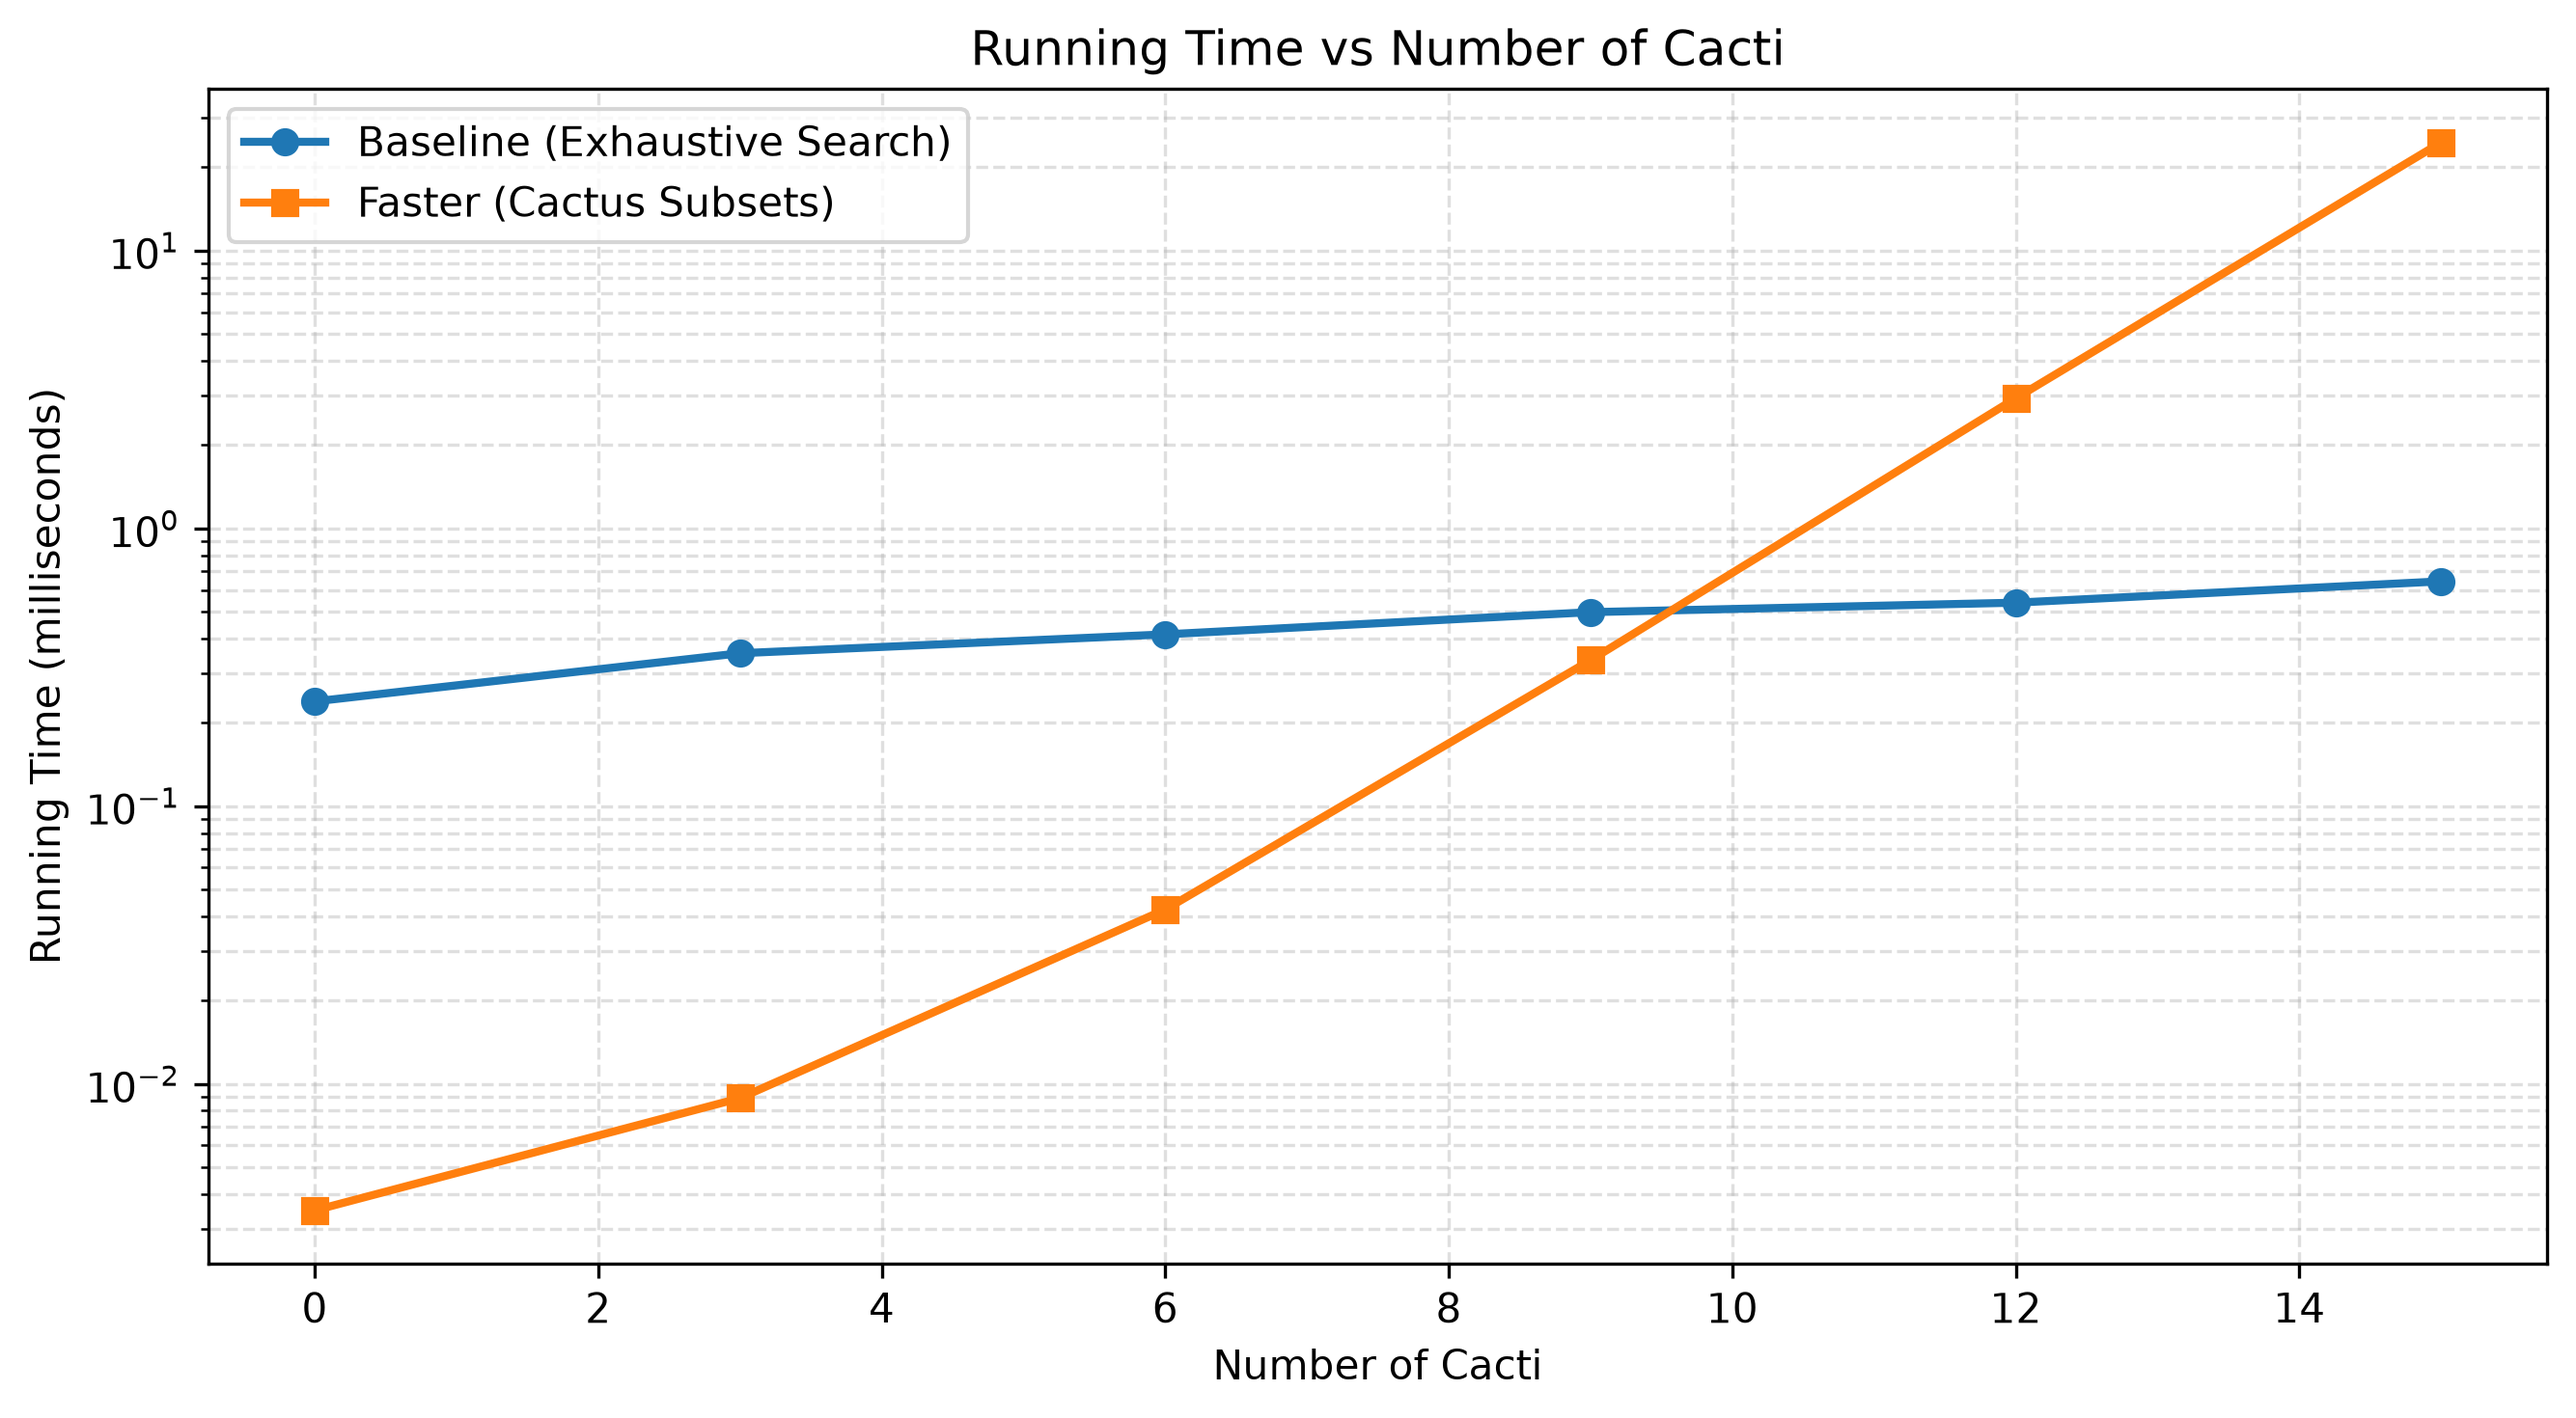
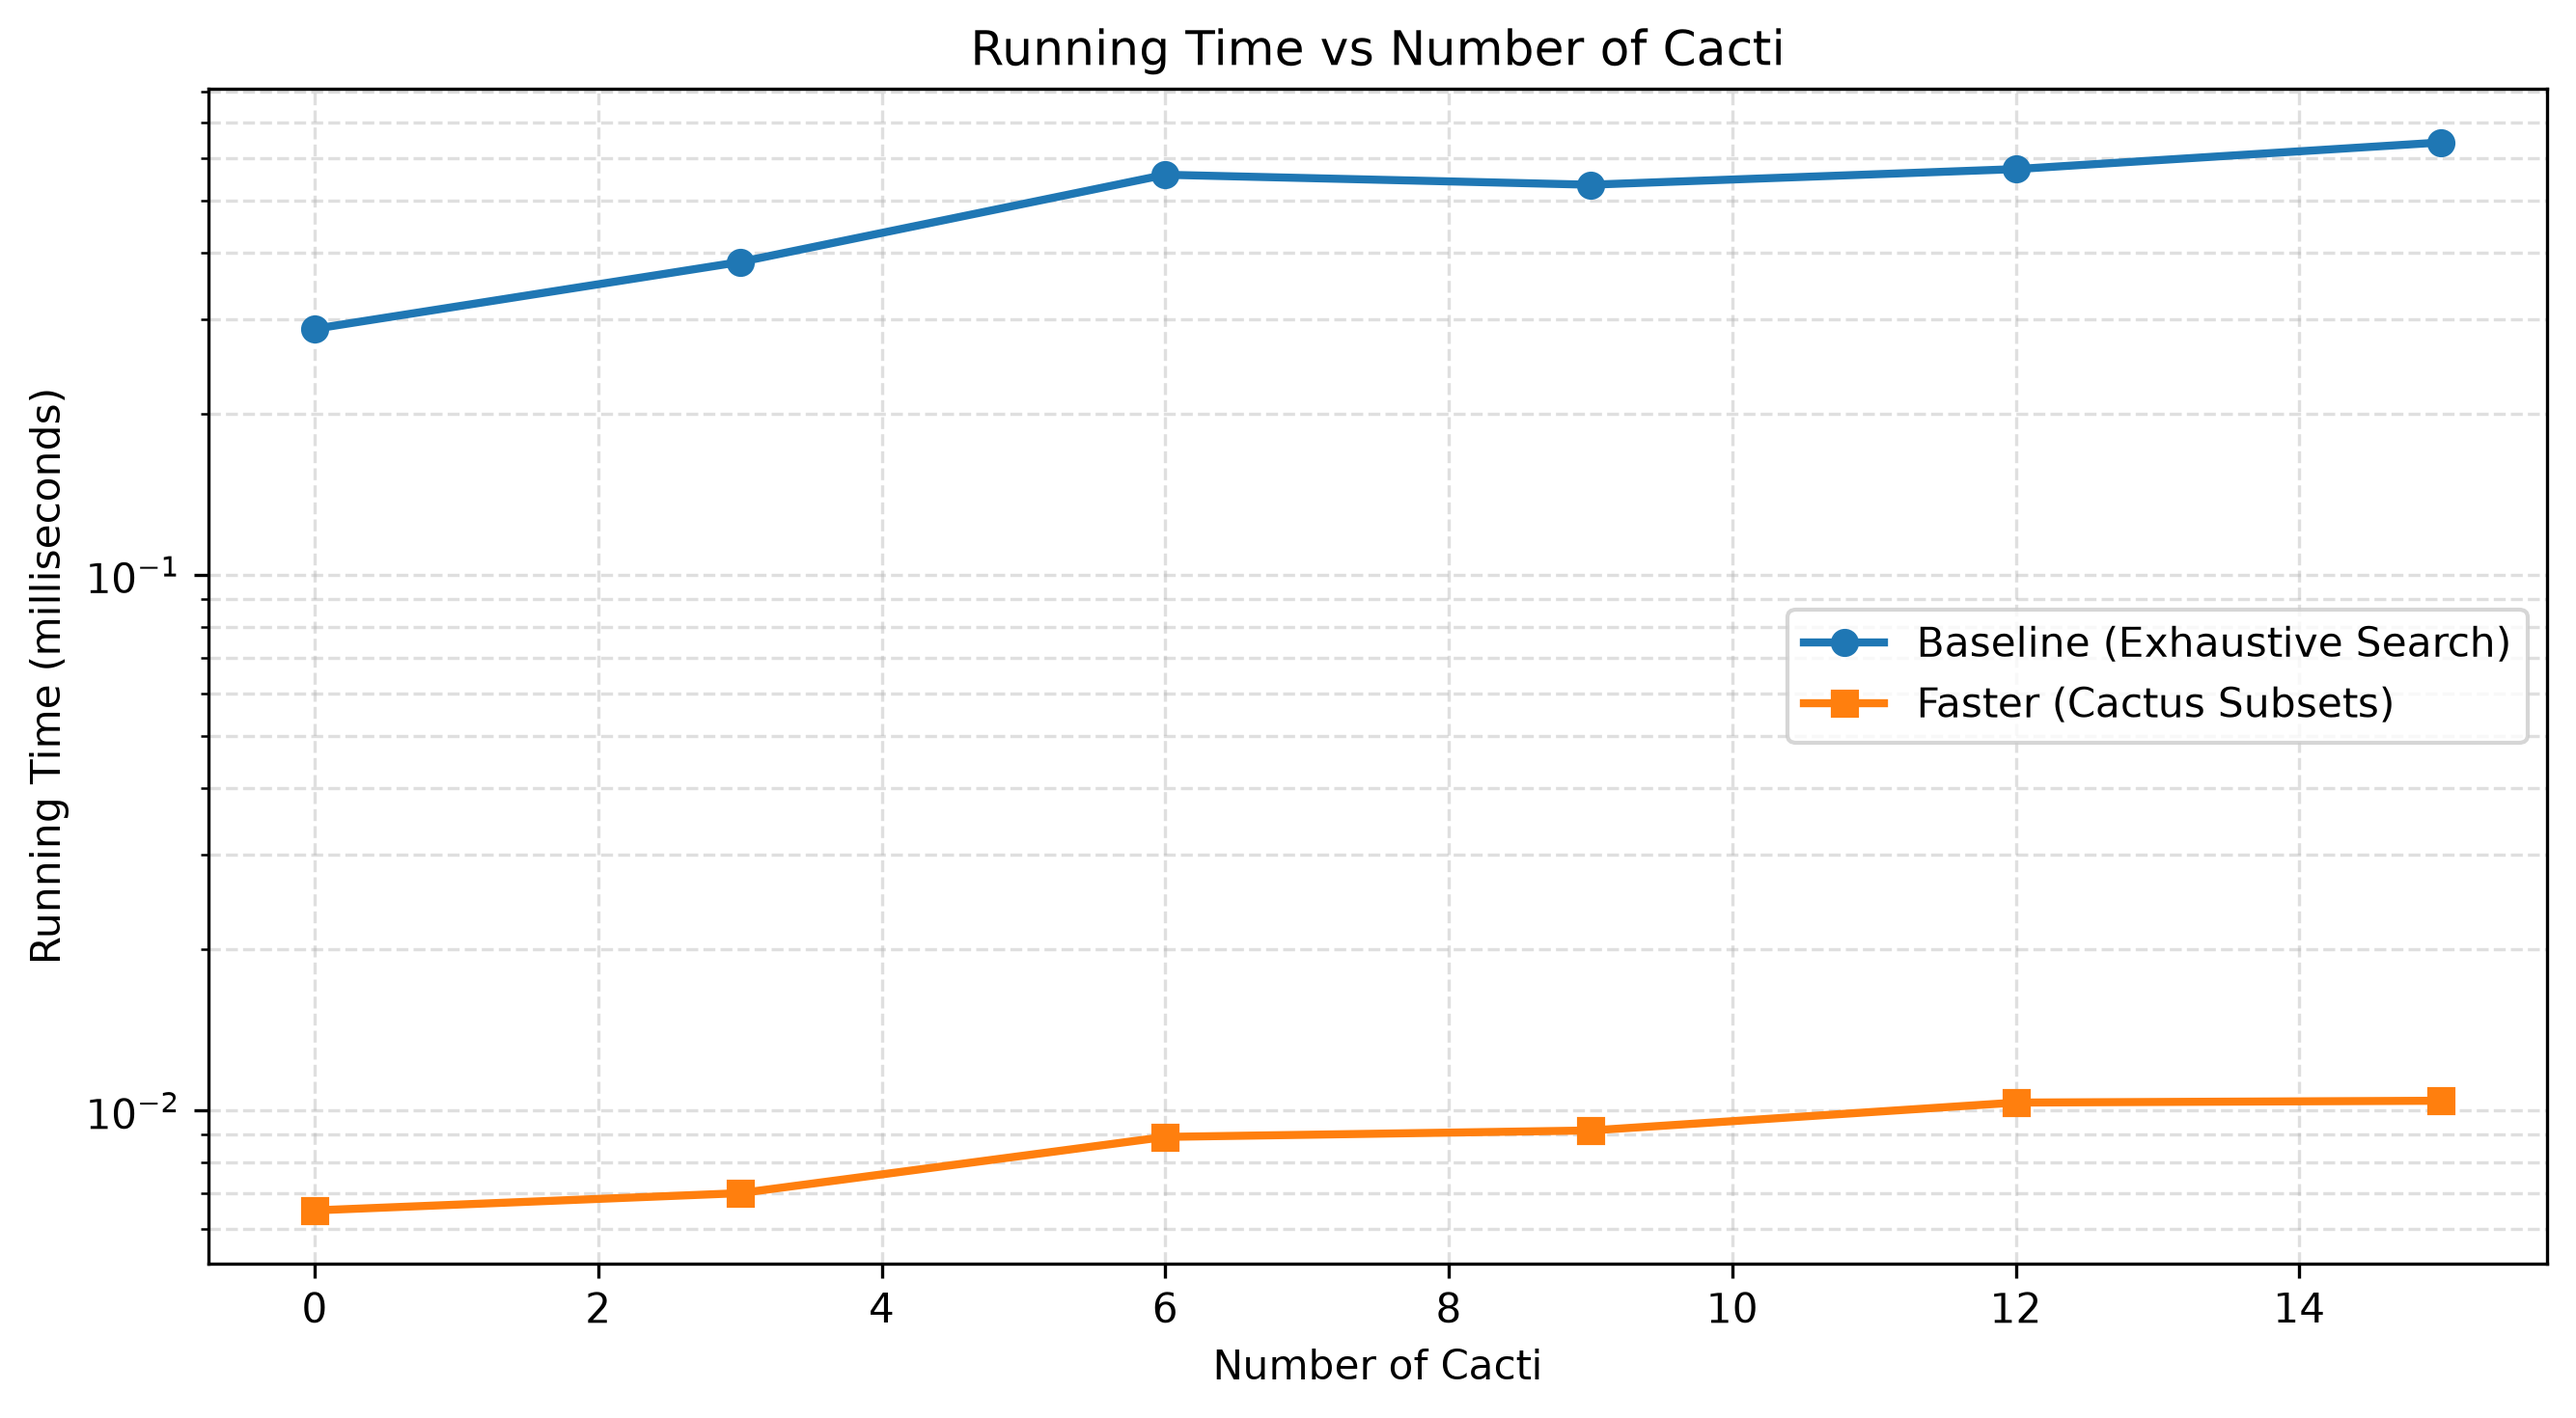
Optimize cactus search and compare benchmark performance

diff --git a/fasterAlgo.py b/fasterAlgo.py
@@ -5,21 +5,19 @@
 
 """
 CMPT 360 - Option 4: Cover
-Faster Algorithm: Cactus Subset Enumeration
+Faster Algorithm: Optimized Cactus Subset Enumeration
 
 Goal:
 Water every orange tree while minimizing the number
 of distinct cacti watered.
 
-Main idea:
-Instead of trying all subsets of sprinklers, try all
-subsets of cacti that we are willing to water.
+Main improvements:
+1. Identify cacti that must be watered.
+2. Ignore sprinklers that cover no orange trees.
+3. Ignore cacti that are irrelevant to the solution.
+4. Enumerate only the remaining optional cacti.
 
-For each allowed cactus subset, select sprinklers that
-avoid the forbidden cacti and cover all orange trees.
-
-This approach works best when there are fewer cacti
-than sprinklers.
+The algorithm still guarantees an optimal solution.
 """
 
 import argparse
@@ -39,11 +37,10 @@ def solve_cover(O, C, S, R):
         or None if no valid solution exists.
     """
 
-    # Each sprinkler must have a corresponding radius.
+    # Check that each sprinkler has a radius.
     if len(S) != len(R):
         raise ValueError("S and R must have the same length")
 
-    # Sprinkler radii cannot be negative.
     if any(radius < 0 for radius in R):
         raise ValueError("Sprinkler radii cannot be negative")
 
@@ -51,116 +48,157 @@ def solve_cover(O, C, S, R):
     if not O:
         return [], 0
 
-    # Precompute which oranges and cacti each sprinkler
-    # waters. We represent these sets using bitmasks.
     orange_masks = []
     cactus_masks = []
+    useful = []
 
-    for position, radius in zip(S, R):
-
-        # Calculate the sprinkler's watering interval.
+    # Precompute the objects covered by each sprinkler.
+    for i, (position, radius) in enumerate(zip(S, R)):
         left = position - radius
         right = position + radius
 
         oranges = 0
         cacti = 0
 
-        # Set bit j to 1 if orange j is watered.
+        # Set one bit for every orange watered.
         for j, orange in enumerate(O):
             if left <= orange <= right:
                 oranges |= 1 << j
 
-        # Set bit j to 1 if cactus j is watered.
+        # Set one bit for every cactus watered.
         for j, cactus in enumerate(C):
             if left <= cactus <= right:
                 cacti |= 1 << j
 
-        # Save the coverage masks for this sprinkler.
         orange_masks.append(oranges)
         cactus_masks.append(cacti)
 
-    # A mask containing 1 for every orange tree.
-    # Example: 3 oranges -> binary 111.
+        # A sprinkler covering no oranges is unnecessary.
+        if oranges != 0:
+            useful.append(i)
+
+    # Target mask: every orange tree must be covered.
     all_oranges = (1 << len(O)) - 1
 
-    # Try allowing 0 cacti to get wet, then 1,
-    # then 2, until we find a valid solution.
-    for budget in range(len(C) + 1):
+    # --------------------------------------------------
+    # Optimization 1: Find unavoidable cacti.
+    # --------------------------------------------------
 
-        # Generate all cactus subsets of this size.
+    forced_cacti = 0
+
+    for j in range(len(O)):
+
+        # Find sprinklers that can water orange j.
+        covering = [
+            i for i in useful
+            if orange_masks[i] & (1 << j)
+        ]
+
+        # If no sprinkler reaches this orange,
+        # the entire problem is impossible.
+        if not covering:
+            return None
+
+        # Find cacti watered by EVERY sprinkler
+        # capable of covering this orange.
+        common_cacti = cactus_masks[covering[0]]
+
+        for i in covering[1:]:
+            common_cacti &= cactus_masks[i]
+
+        # These cacti must be watered in any solution.
+        forced_cacti |= common_cacti
+
+    # --------------------------------------------------
+    # Optimization 2: Remove irrelevant cacti.
+    # --------------------------------------------------
+
+    relevant_cacti = 0
+
+    # Only consider cacti watered by sprinklers
+    # that can cover at least one orange.
+    for i in useful:
+        relevant_cacti |= cactus_masks[i]
+
+    # Keep only cacti that are relevant but not forced.
+    # These are the cacti we actually need to enumerate.
+    optional_indices = [
+        j for j in range(len(C))
+        if (relevant_cacti & (1 << j))
+        and not (forced_cacti & (1 << j))
+    ]
+
+    # --------------------------------------------------
+    # Optimization 3: Search optional cactus subsets.
+    # --------------------------------------------------
+
+    # Try allowing zero optional cacti, then one,
+    # and continue until we find a valid solution.
+    for budget in range(len(optional_indices) + 1):
+
         for cactus_subset in combinations(
-            range(len(C)), budget
+            optional_indices, budget
         ):
 
-            # Create a mask of cacti allowed to get wet.
-            allowed_cacti = 0
+            # Forced cacti are always allowed.
+            allowed_cacti = forced_cacti
 
+            # Add the optional cacti for this subset.
             for j in cactus_subset:
                 allowed_cacti |= 1 << j
 
-            # Track the current sprinkler selection.
             selected = []
             covered_oranges = 0
-            actually_watered_cacti = 0
+            watered_cacti = 0
 
-            # Examine every sprinkler.
-            for i in range(len(S)):
+            # Examine only useful sprinklers.
+            for i in useful:
 
-                # Skip this sprinkler if it waters a
-                # cactus outside the allowed subset.
-                #
-                # & checks for overlap between sets.
-                # ~ identifies the forbidden cactus bits.
+                # Reject sprinklers watering forbidden cacti.
                 if cactus_masks[i] & ~allowed_cacti:
                     continue
 
-                # Skip this sprinkler if it does not
-                # cover any new orange trees.
-                #
-                # | combines the already covered oranges
-                # with the sprinkler's orange coverage.
+                # Skip sprinklers that add no new oranges.
                 if (orange_masks[i] | covered_oranges) == covered_oranges:
                     continue
 
-                # Select this sprinkler.
+                # Select the sprinkler and update coverage.
                 selected.append(i)
-
-                # Update the covered oranges and
-                # the cacti that actually get wet.
                 covered_oranges |= orange_masks[i]
-                actually_watered_cacti |= cactus_masks[i]
+                watered_cacti |= cactus_masks[i]
 
-                # Check whether every orange is covered.
+                # All orange trees are now covered.
                 if covered_oranges == all_oranges:
 
-                    # Count the number of distinct cacti
-                    # watered by the selected sprinklers.
-                    cost = bin(actually_watered_cacti).count("1")
+                    # Count distinct cacti actually watered.
+                    cost = bin(watered_cacti).count("1")
 
-                    # Since we try smaller cactus budgets
-                    # first, this solution is optimal.
+                    # Smaller budgets were checked first,
+                    # so this solution must be optimal.
                     return selected, cost
 
-    # No combination of sprinklers can cover all oranges.
+    # No valid sprinkler selection exists.
     return None
 
 
 def main():
-    # Read the input JSON filename from the terminal.
+    # Read the JSON input filename.
     parser = argparse.ArgumentParser(
-        description="Faster exact algorithm for CMPT 360 Cover"
+        description="Optimized exact algorithm for CMPT 360 Cover"
     )
+
     parser.add_argument(
         "input_file",
         help="Path to an input JSON file"
     )
+
     args = parser.parse_args()
 
-    # Load the orange, cactus, and sprinkler information.
+    # Load the input data.
     with open(args.input_file, "r", encoding="utf-8") as file:
         data = json.load(file)
 
-    # Execute the faster algorithm.
+    # Run the optimized algorithm.
     result = solve_cover(
         data["O"],
         data["C"],
@@ -168,12 +206,10 @@ def main():
         data["R"]
     )
 
-    # Handle cases where no valid solution exists.
     if result is None:
         print("No valid selection covers all orange trees.")
         return
 
-    # Display the selected sprinklers and minimum cost.
     selected_indices, cost = result
 
     print("Selected indices (0-based):", selected_indices)
@@ -184,6 +220,5 @@ def main():
     print("Number of cacti watered:", cost)
 
 
-# Run main() only when this file is executed directly.
 if __name__ == "__main__":
     main()
